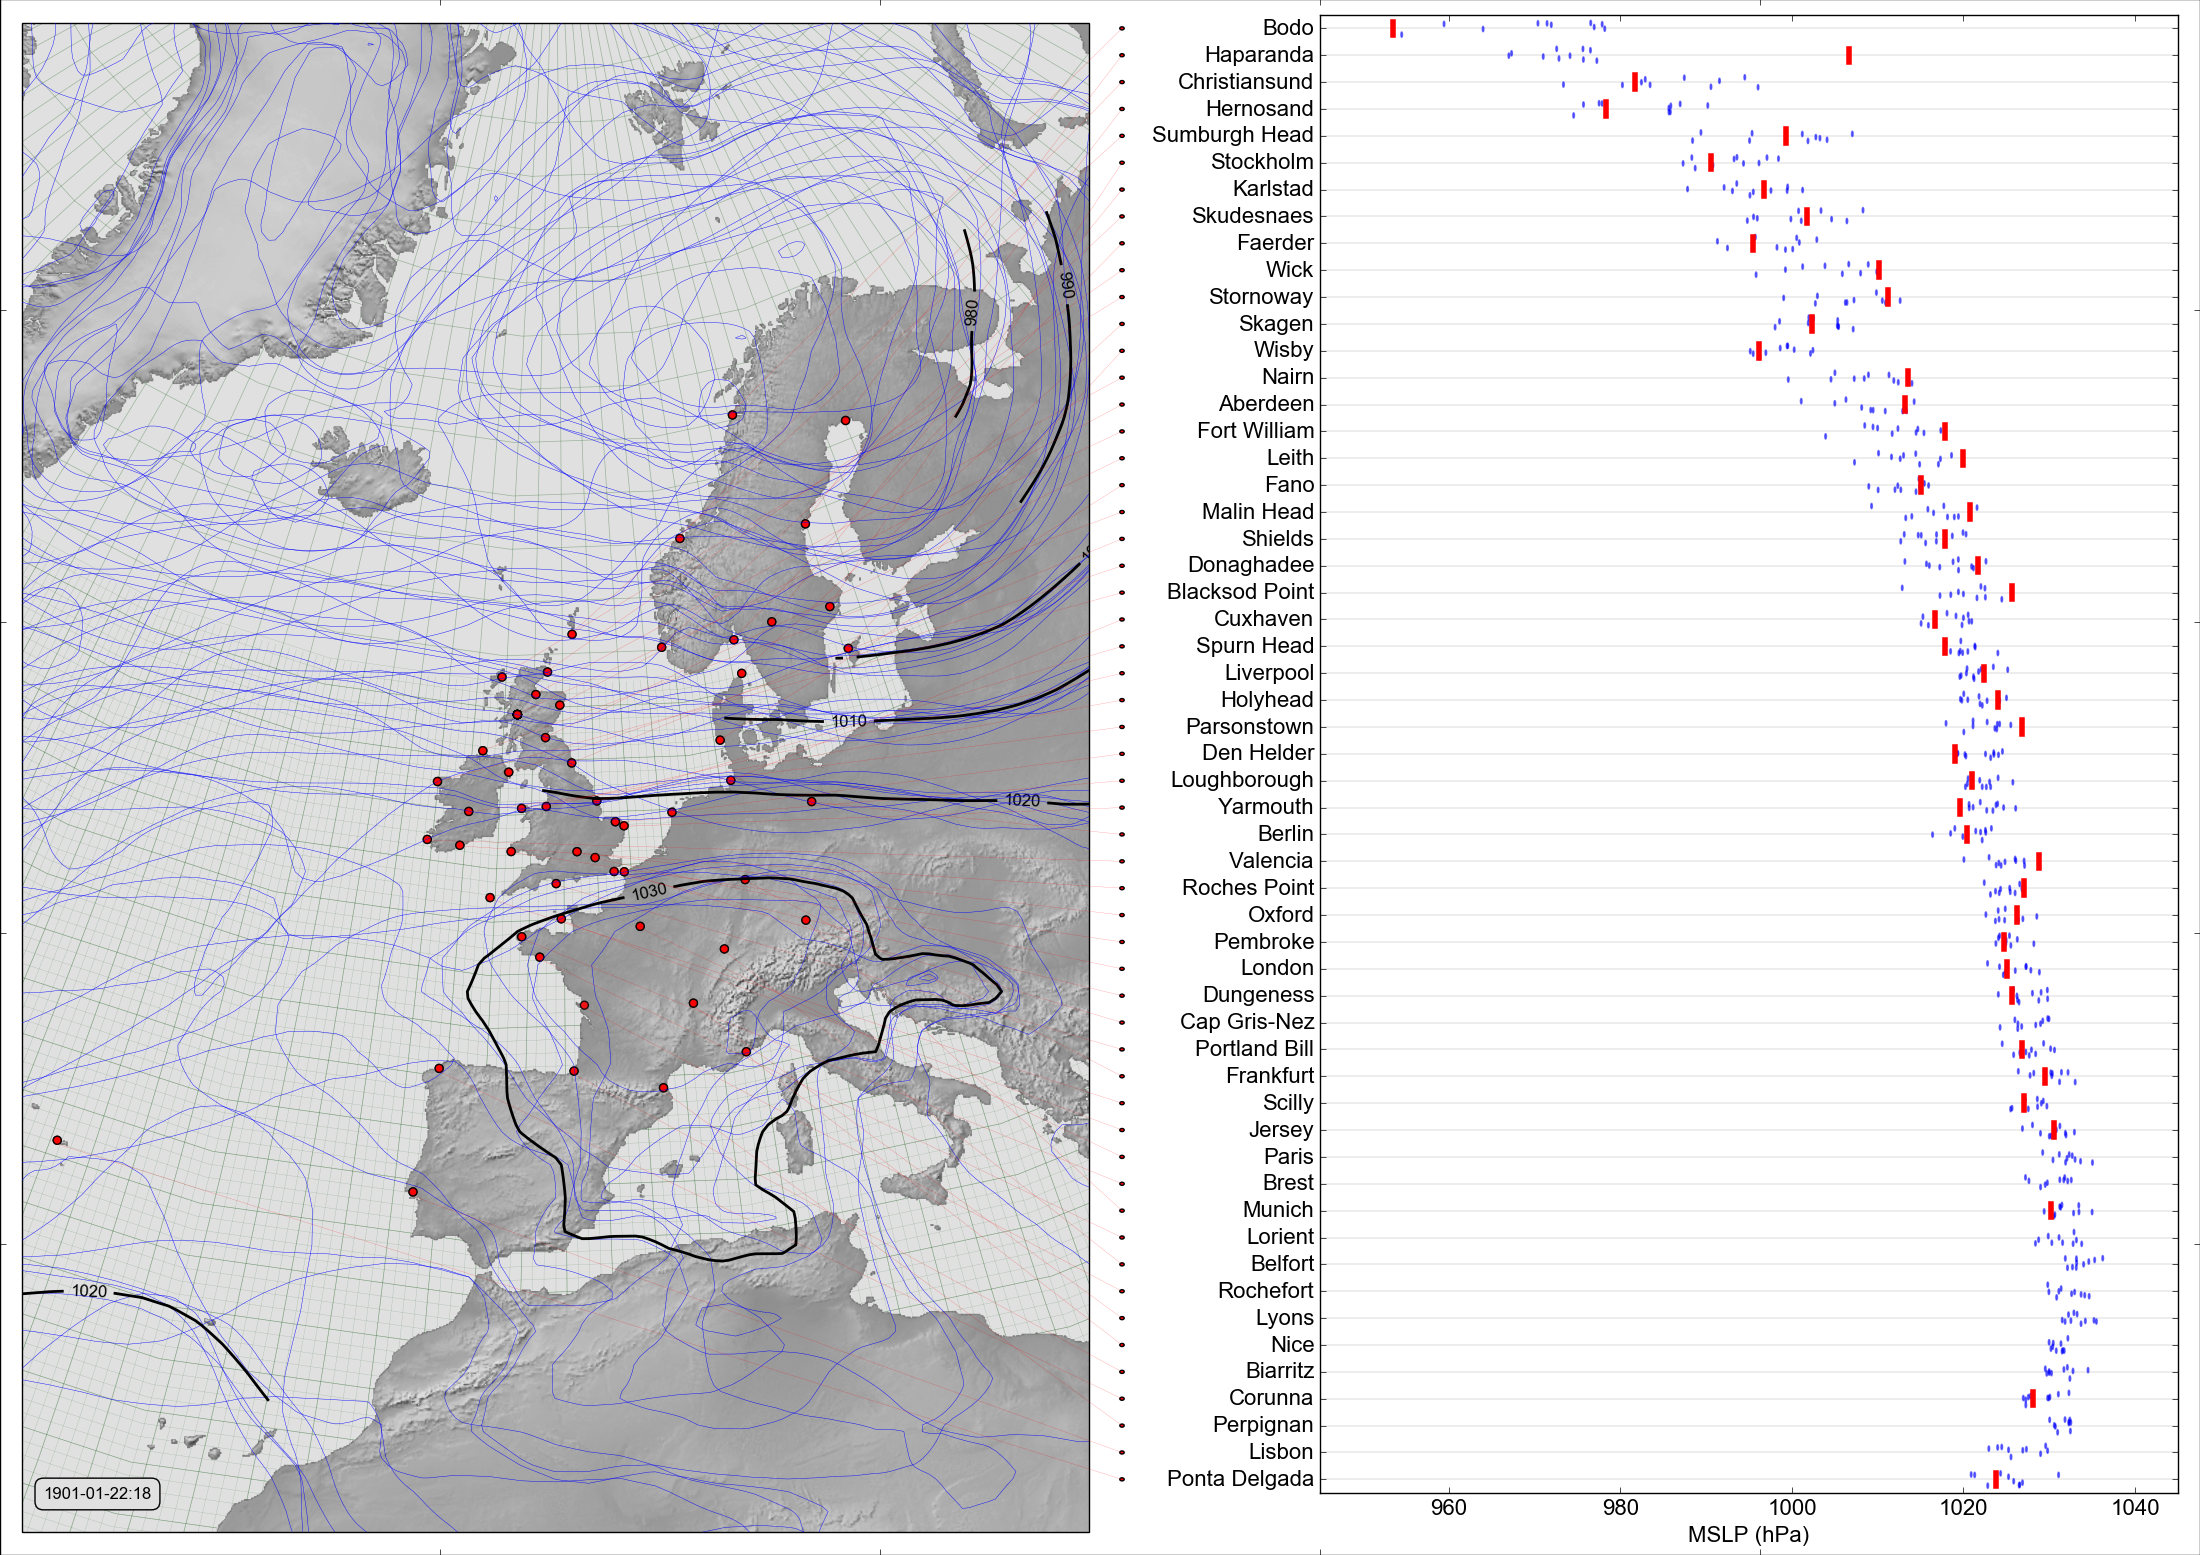
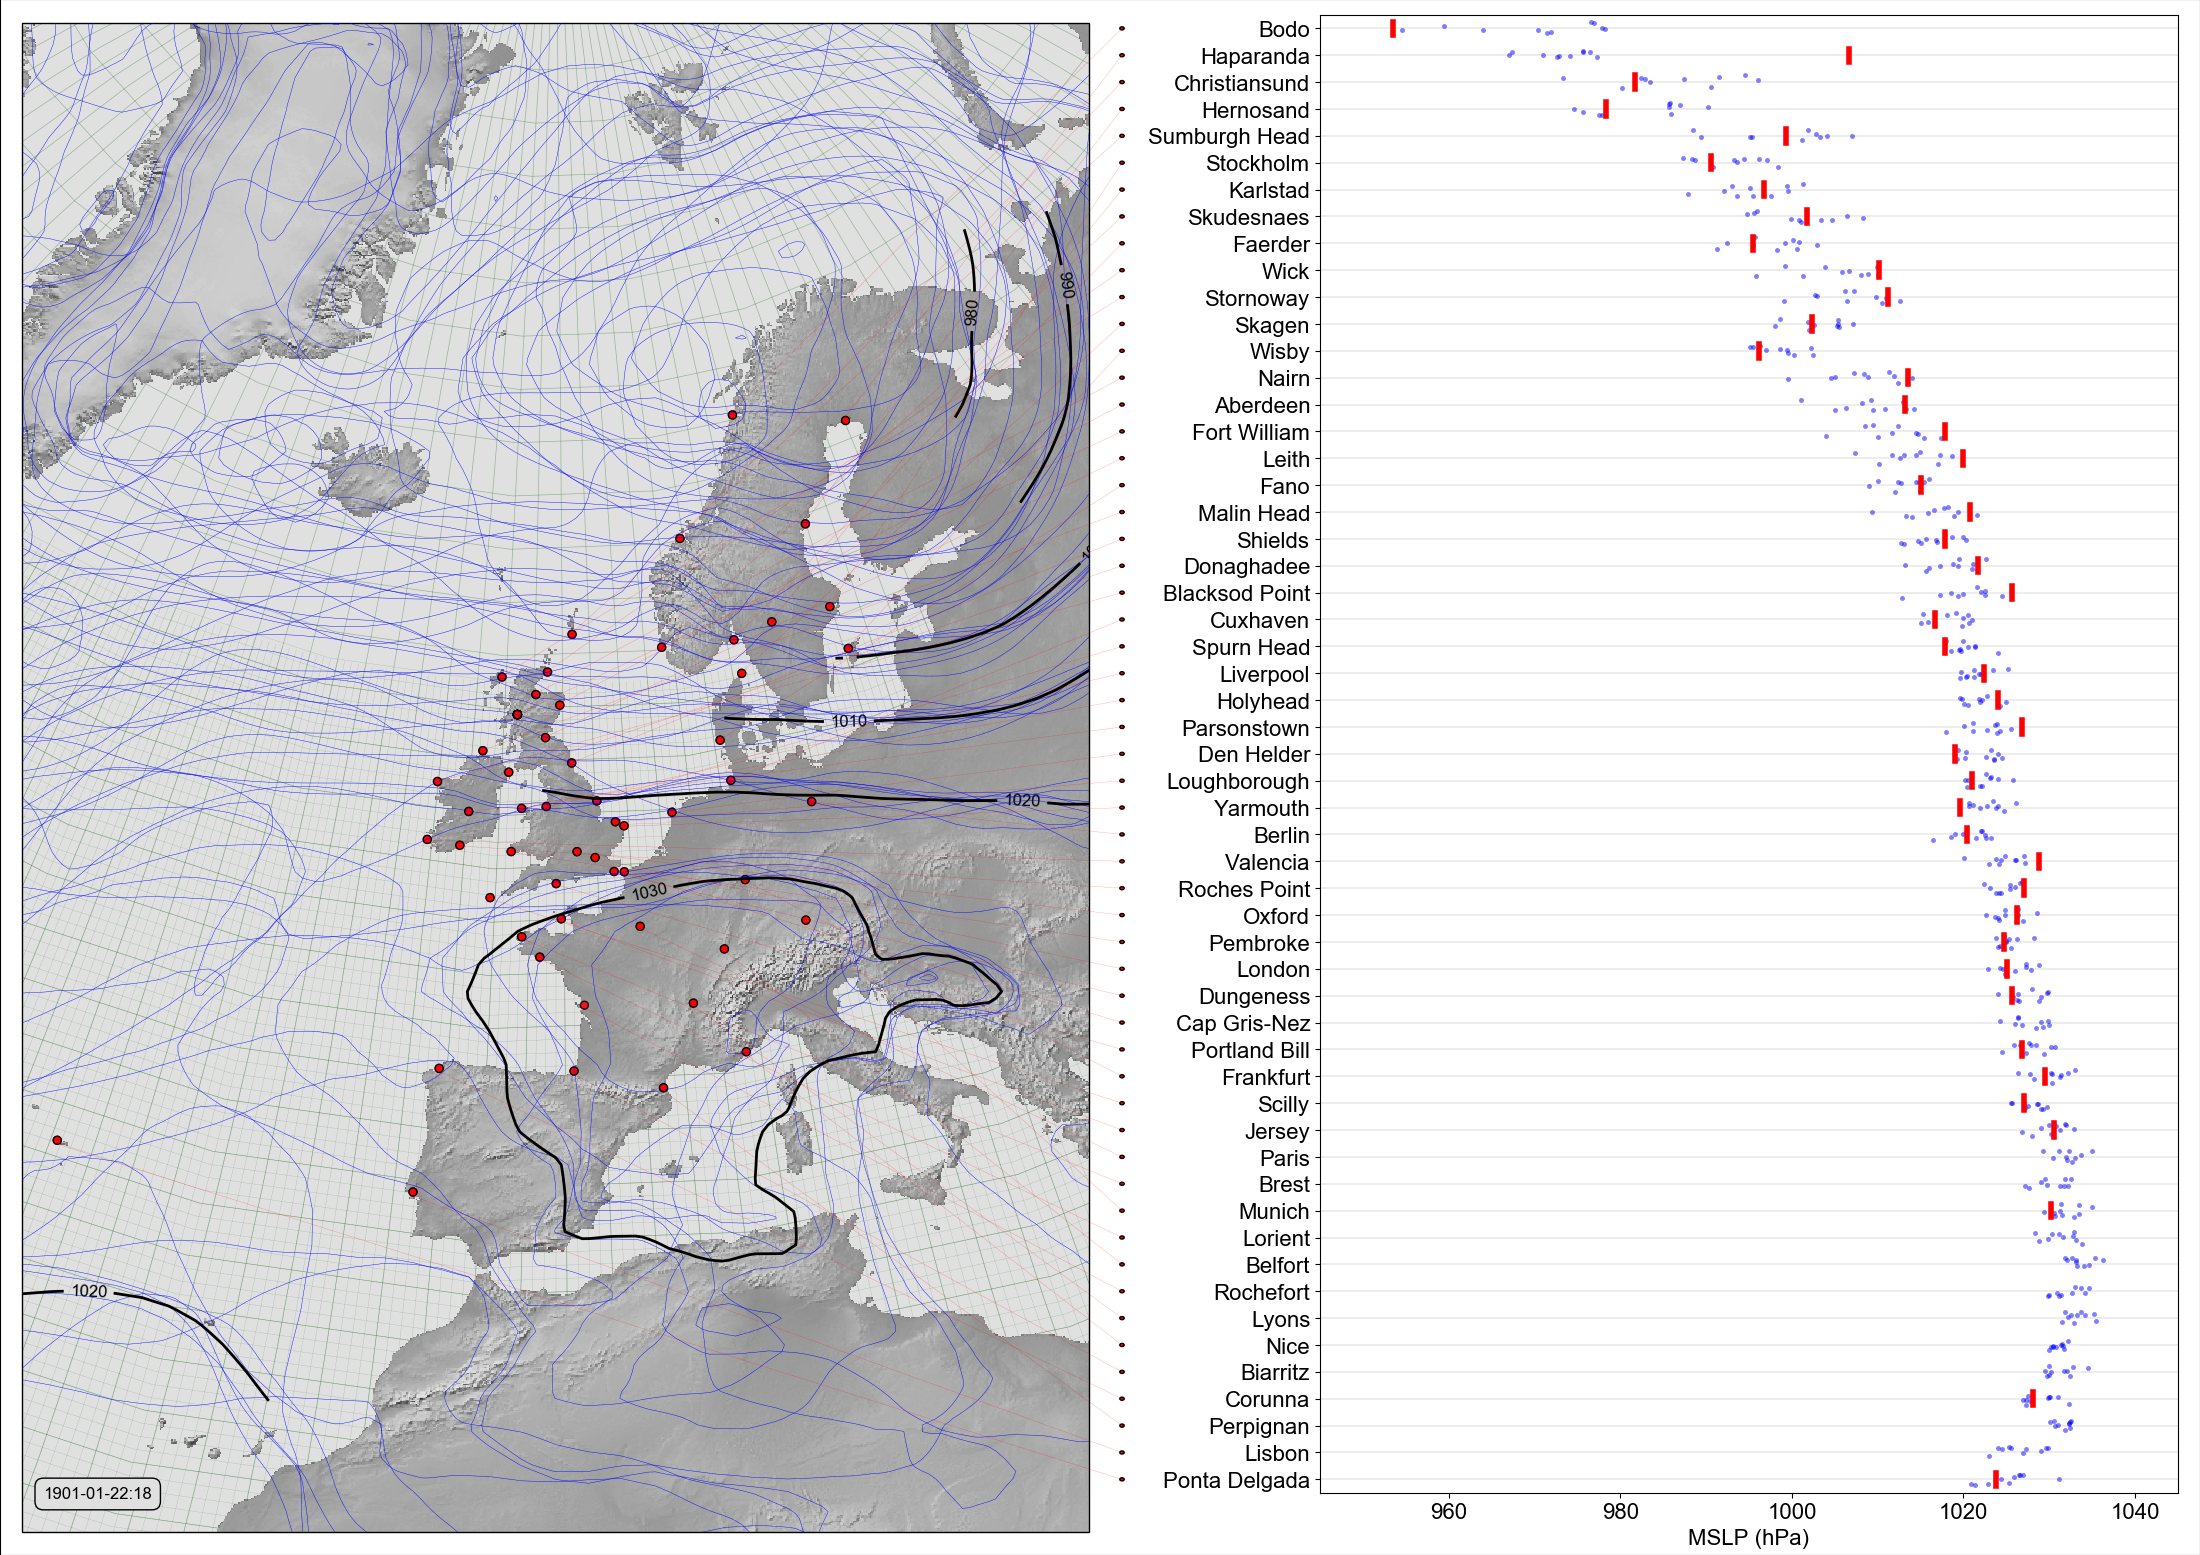
Updated documentation to latest version of Meteorographica, and switched sphinx theme to agogo.

diff --git a/analyses/scatter+contour/video/scatter+contour.py b/analyses/scatter+contour/video/scatter+contour.py
@@ -49,9 +49,9 @@ dte=datetime.datetime(args.year,args.month,args.day,
                       int(args.hour),int(args.hour%1*60))
 
 # Get the station list and order
-obs_month=DWR.get_obs(datetime.datetime(1903,10,1,1),
-                datetime.datetime(1903,10,31,23),
-                'prmsl')
+obs_month=DWR.load_observations('prmsl',
+                                datetime.datetime(1903,10,1,1),
+                                datetime.datetime(1903,10,31,23))
 # sort them from north to south
 obs_month=obs_month.sort_values(by='latitude',
                                 ascending=True)
@@ -102,16 +102,18 @@ wm.plot_obs(ax_map,obs_month,lat_label='latitude',
             lon_label='longitude',radius=0.15,facecolor=(1,0,0,0))
 
 # Get the DWR observations within +- 15 hours
-obs=DWR.get_obs(dte-datetime.timedelta(hours=15.1),
-                dte+datetime.timedelta(hours=15.1),
-                'prmsl')
+obs=DWR.load_observations('prmsl',
+                          dte-datetime.timedelta(hours=15.1),
+                          dte+datetime.timedelta(hours=15.1))
 
 # Mark all the stations used in this day - filled circle
 wm.plot_obs(ax_map,obs,lat_label='latitude',
             lon_label='longitude',radius=0.15,facecolor='red')
 
 # Add the observations from 20CR
-obs_t=twcr.get_obs(dte-datetime.timedelta(hours=24),dte,'3.5.1')
+obs_t=twcr.load_observations(dte-datetime.timedelta(hours=24),
+                             dte,
+                             version='2c')
 # Filter to those assimilated and near the UK
 obs_s=obs_t.loc[(obs_t['Assimilation.indicator']==1) &
               ((obs_t['Latitude']>0) & 
@@ -121,9 +123,8 @@ obs_s=obs_t.loc[(obs_t['Assimilation.indicator']==1) &
 wm.plot_obs(ax_map,obs_s,radius=0.15)
 
 # load the pressures
-prmsl=twcr.get_slice_at_hour('prmsl',args.year,
-                             args.month,args.day,args.hour,
-                             version='3.5.1',type='ensemble')
+prmsl=twcr.load('prmsl',args.year,args.month,args.day,
+                        args.hour,version='2c')
 
 # For each ensemble member, make a contour plot
 for m in prmsl.coord('member').points:

diff --git a/analyses/scatter+contour/video_cera/scatter+contour.py b/analyses/scatter+contour/video_cera/scatter+contour.py
@@ -49,9 +49,9 @@ dte=datetime.datetime(args.year,args.month,args.day,
                       int(args.hour),int(args.hour%1*60))
 
 # Get the station list and order
-obs_month=DWR.get_obs(datetime.datetime(1903,10,1,1),
-                datetime.datetime(1903,10,31,23),
-                'prmsl')
+obs_month=DWR.load_observations('prmsl',
+                                datetime.datetime(1903,10,1,1),
+                                datetime.datetime(1903,10,31,23))
 # sort them from north to south
 obs_month=obs_month.sort_values(by='latitude',
                                 ascending=True)
@@ -102,17 +102,16 @@ wm.plot_obs(ax_map,obs_month,lat_label='latitude',
             lon_label='longitude',radius=0.15,facecolor=(1,0,0,0))
 
 # Get the DWR observations within +- 15 hours
-obs=DWR.get_obs(dte-datetime.timedelta(hours=15.1),
-                dte+datetime.timedelta(hours=15.1),
-                'prmsl')
+obs=DWR.load_observations('prmsl',
+                          dte-datetime.timedelta(hours=15.1),
+                          dte+datetime.timedelta(hours=15.1))
 
 # Mark all the stations used in this day - filled circle
 wm.plot_obs(ax_map,obs,lat_label='latitude',
             lon_label='longitude',radius=0.15,facecolor='red')
 
 # load the pressures
-prmsl=cera20c.get_slice_at_hour('prmsl',
-                                args.year,args.month,
+prmsl=cera20c.load('prmsl',args.year,args.month,
                                 args.day,args.hour)
 
 # For each ensemble member, make a contour plot

diff --git a/analyses/validation_scatterplot/validation_scatterplot.py b/analyses/validation_scatterplot/validation_scatterplot.py
@@ -27,9 +27,9 @@ hour=18
 dte=datetime.datetime(year,month,day,hour)
 
 # Get the DWR observations within +- 12 hours
-obs=DWR.get_obs(dte-datetime.timedelta(hours=12.1),
-                dte+datetime.timedelta(hours=12.1),
-                'prmsl')
+obs=DWR.load_observations('prmsl',
+                          dte-datetime.timedelta(hours=12.1),
+                          dte+datetime.timedelta(hours=12.1))
 # sort them from north to south
 obs=obs.sort_values(by='latitude',ascending=True)
 # Get the list of stations - preserving order
@@ -103,8 +103,8 @@ for y in range(0,len(stations)):
             zorder=1))
     
 # load the reanalysis pressures 
-prmsl=twcr.get_slice_at_hour('prmsl',year,month,day,hour,
-                             version='3.5.1',type='ensemble')
+prmsl=twcr.load('prmsl',year,month,day,hour,
+                                 version='2c')
 
 # for each station, plot the reanalysis ensemble at that station
 interpolator = iris.analysis.Linear().interpolator(prmsl, 

diff --git a/analyses/validation_scatterplot/validation_scatterplot.cera20c.py b/analyses/validation_scatterplot/validation_scatterplot.cera20c.py
@@ -27,9 +27,9 @@ hour=18
 dte=datetime.datetime(year,month,day,hour)
 
 # Get the DWR observations within +- 6 hours
-obs=DWR.get_obs(dte-datetime.timedelta(hours=12.1),
-                dte+datetime.timedelta(hours=12.1),
-                'prmsl')
+obs=DWR.load_observations('prmsl',
+                          dte-datetime.timedelta(hours=12.1),
+                          dte+datetime.timedelta(hours=12.1))
 # sort them from north to south
 obs=obs.sort_values(by='latitude',ascending=True)
 # Get the list of stations - preserving order
@@ -104,7 +104,7 @@ for y in range(0,len(stations)):
             zorder=1))
     
 # load the reanalysis pressures 
-prmsl=cera20c.get_slice_at_hour('prmsl',year,month,day,hour)
+prmsl=cera20c.load('prmsl',year,month,day,hour)
 
 # for each station, plot the reanalysis ensemble at that station
 interpolator = iris.analysis.Linear().interpolator(prmsl, 

diff --git a/docs/conf.py b/docs/conf.py
@@ -132,8 +132,9 @@ html_theme = 'agogo'
 # documentation.
 #
 html_theme_options = {
-    'documentwidth': '800px',
+    'documentwidth': '825px',
     'textalign': 'left',
+    'headerfont': 'serif',    # Need caps and digits same height (20CR)
 }
 #    'github_user': 'oldweather',
 #    'github_repo': 'DWR',

diff --git a/analyses/scatter+contour/scatter+contour.cera20c.py b/analyses/scatter+contour/scatter+contour.cera20c.py
@@ -25,10 +25,10 @@ import Meteorographica.data.cera20c as cera20c
 import DWR
  
 # Date to show - Heroy hurricane
-year=1919
-month=10
-day=31
-hour=0
+year=1901
+month=01
+day=22
+hour=18
 dte=datetime.datetime(year,month,day,hour)
 
 # Landscape page

diff --git a/analyses/scatter+contour/scatter+contour.py b/analyses/scatter+contour/scatter+contour.py
@@ -24,10 +24,10 @@ import Meteorographica.data.twcr as twcr
 import DWR
  
 # Date to show 
-year=1924
-month=10
-day=11
-hour=0
+year=1901
+month=01
+day=22
+hour=18
 dte=datetime.datetime(year,month,day,hour)
 
 # Landscape page

diff --git a/analyses/scatter+contour/get_data_20CR.py b/analyses/scatter+contour/get_data_20CR.py
@@ -1,0 +1,3 @@
+import Meteorographica.data.twcr as twcr
+twcr.fetch('prmsl',1901,version='2c')
+twcr.fetch_observations(1901,version='2c')

diff --git a/analyses/scatter+contour/video_cera/get_data_CERA.py b/analyses/scatter+contour/video_cera/get_data_CERA.py
@@ -1,2 +1,2 @@
 import Meteorographica.data.cera20c as cera20c
-cera20c.fetch('prmsl',1903,2)
+cera20c.fetch('prmsl',1903,10)

diff --git a/analyses/scatter+contour/get_data_CERA.py b/analyses/scatter+contour/get_data_CERA.py
@@ -1,2 +1,2 @@
 import Meteorographica.data.cera20c as cera20c
-cera20c.fetch('prmsl',1903,2)
+cera20c.fetch('prmsl',1901,1)

diff --git a/analyses/validation_scatterplot/get_data_CERA.py b/analyses/validation_scatterplot/get_data_CERA.py
@@ -1,2 +1,2 @@
 import Meteorographica.data.cera20c as cera20c
-cera20c.fetch('prmsl',1903,2)
+cera20c.fetch('prmsl',1901,1)

diff --git a/analyses/validation_scatterplot/get_data_20CR.py b/analyses/validation_scatterplot/get_data_20CR.py
@@ -1,0 +1,2 @@
+import Meteorographica.data.twcr as twcr
+twcr.fetch('prmsl',1901,version='2c')
